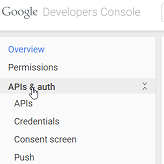
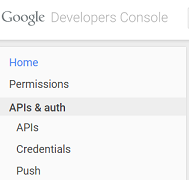
changed the screenshots and description subject to the changes made in the Google application

diff --git a/user_guide/google_single_sign_on.rst b/user_guide/google_single_sign_on.rst
@@ -12,38 +12,36 @@ On the Google Side
 ------------------
 
 You need to create a project for OroCRM in the 
-`Google Developers Console <http://https://console.developers.google.com/start>`_:
+`Google Developers Console <https://console.developers.google.com/start>`_:
 
 - Go to the Google Developers Console.
-- Create a project in the *"Select a project"* drop-down menu.
+
   |
+
+- Create a project in the *"Select a project"* drop-down menu.
+ 
+ |
   
   |CreateProject|
 
   |
   
 - Define the Project name.
+
+  |
+  
 - Go to the *"APIs & auth"* menu.
 
   |
   
   |APImenu|
-  
-  |
-  
-- Go to the *"Consent screen"* section and define the project details that will be shown to users whenever you request 
-  access to their private data using your client ID.
 
-- Click the :guilabel:`Save` button.
-
-  |
-
-  |ConsentScreen|
-   
-  |
+  |  
   
 - Go to the *"Credentials"* section.
 
+  |
+  
 - Click the :guilabel:`Create new Client ID` button.
 
   |
@@ -79,8 +77,22 @@ You need to create a project for OroCRM in the
 - The Client ID has been generated
 
   |
+  |
   
 .. image:: ./img/google_integration/created_client_id.png
+  
+- Go to the *"OAuth Consent screen"* tab to define the project details that will be shown to users whenever 
+  access to their private data is requested with the defined client ID.*
+
+  |
+  
+- Click the :guilabel:`Save` button.
+
+  |
+
+  |ConsentScreen|
+   
+  |
 
 
 On the OroCRM Side
@@ -88,6 +100,8 @@ On the OroCRM Side
 
 - Go to *"System → Configuration → Integrations → Google Settings"*.
 
+  |
+  
 - Check the *"Enable"* box and define the following details:
 
 .. csv-table::
@@ -111,7 +125,9 @@ When a user gets to the login page of an instance for which single sign-on capab
 
 - If the user is not logged in to any Google accounts, after the link has been clicked, a usual Google log-in page will 
   appear.
-  
+
+  |
+    
 - After the user has logged in to the Google account, a request to use the account in order to log-in to OroCRM will 
   appear. (Details defined for the consent screen will be used).
 

diff --git a/user_guide/entity_fields.rst b/user_guide/entity_fields.rst
@@ -240,7 +240,6 @@ File
 ****  
 
 .. image:: ./img/entity_management/new_entity_field_file.png
-   :align: middle
 
 - The file fields can be only of the *column table* storage type.
 
@@ -271,7 +270,6 @@ Image
   - **Thumbnail Height***: defines the thumbnail height in pixels.
 
 .. image:: ./img/entity_management/new_entity_field_image.png
-   :align: middle
 
 - The image fields cannot be defined as an identity field for 
   :ref:`export/import <user-guide-entity-management-export-import-common>`.
@@ -293,7 +291,6 @@ correspondingly). For example, "grade the level of service from 1 to 5" or "choo
 - If you have chosen a "select" or "multi-select" option in the "Type" field, additional property "Options".
 
 .. image:: ./img/entity_management/new_entity_field_select.png
-   :align: middle
 
 - Click the :guilabel:`+Add` button to add an option. (For example, numbers from 1 to 5 for the service level assessment
   or different time-periods, etc.).
@@ -390,7 +387,6 @@ For the sake of example, our "Friends" field has the following values:
 - **Related Entity Detailed**: all the fields available.
 
 .. image:: ./img/entity_management/new_entity_field_to_many_def.png
-   :align: middle
 
 Let's create a B2B Customer:
 
@@ -411,7 +407,6 @@ for the *Related Entity Info Title* and *Related Entity Data Fields* are display
       |
   
 .. image:: ./img/entity_management/new_entity_field_to_many_02.png
-   :align: middle
 
 |
    
@@ -421,7 +416,6 @@ Detailed* appears.
       |
 
 .. image:: ./img/entity_management/new_entity_field_to_many_03.png
-   :align: middle
 
 |
    
@@ -429,7 +423,6 @@ The *Related Entity Info Title* properties are also used to represent the  relat
 section").
 
 .. image:: ./img/entity_management/new_entity_field_to_many_04.png
-   :align: middle
 
    
 Many to One Relations
